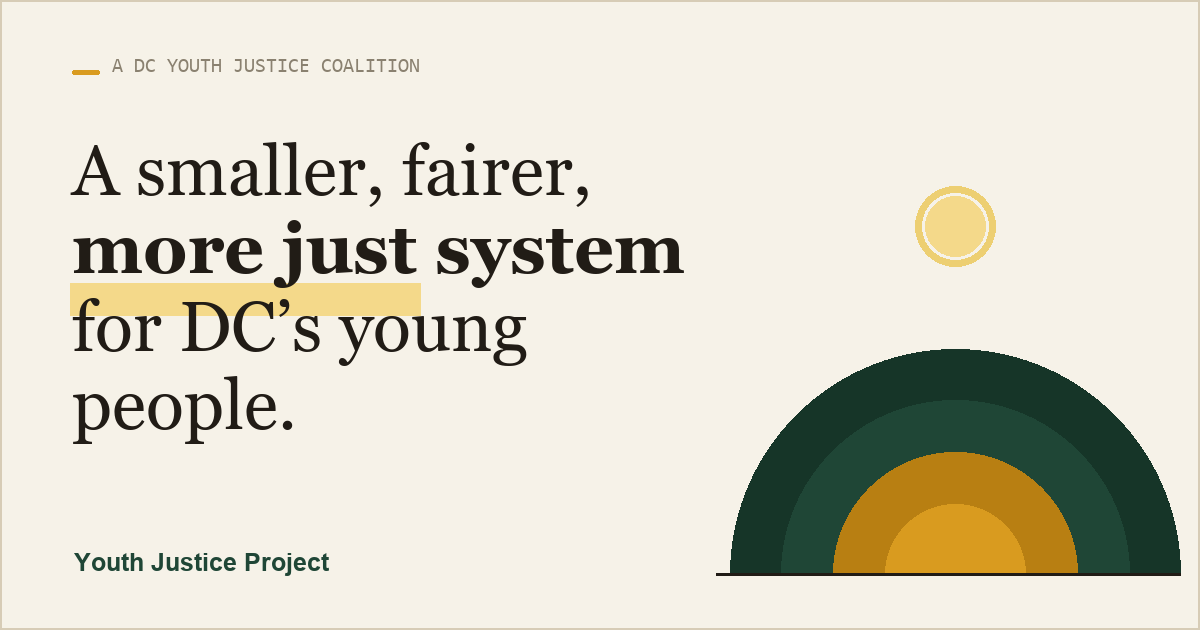
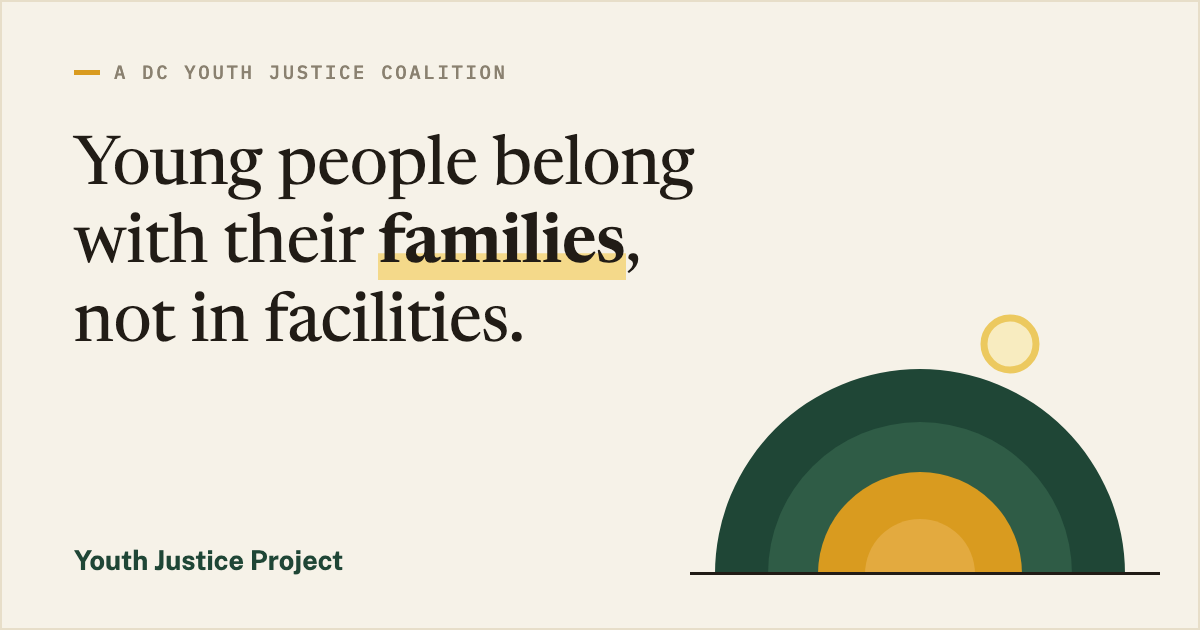
Replace the tagline triplet with four single-idea lines
- Hero: "Young people belong with their families, not in facilities."
  (also rendered into a regenerated og-image.png and its alt text)
- Mission band lead: "Every young person in the system is somebody's
  child. DC should act like it." with the descriptive sentence below
- Policy page hero: "A youth justice system that answers to DC."
- Homepage title tag and footer blurb: "Fewer young people in the
  system, more of them home"
- Drop "smaller, fairer" from the site description and mission copy
- Remove the founding-members roster from the history section for now
  (CSS kept for easy restore)

diff --git a/layouts/_default/members.html b/layouts/_default/members.html
@@ -93,19 +93,6 @@
           <p class="era-sum">Assumed administrative responsibility for the coalition.</p>
         </div>
       </div>
-      <div class="roster-label">The founding coalition, 2010</div>
-      <div class="roster-pills">
-        <span>Campaign for Youth Justice</span>
-        <span>Open City Advocates</span>
-        <span>Free Minds Book Club &amp; Writing Workshop</span>
-        <span>Alliance of Concerned Men</span>
-        <span>Sasha Bruce Youthwork</span>
-        <span>Took Crowell Institute's Juvenile and Special Education Law Clinic</span>
-        <span>DC Behavioral Health Association</span>
-        <span>Public Defender Service for the District of Columbia</span>
-        <span>Justice Policy Institute</span>
-      </div>
-      <p class="note-strip">This is the 2010 founding roster, not the current membership. Today's member organizations are in the grid above.</p>
     </div>
 
     <!-- JOIN -->

diff --git a/layouts/index.html b/layouts/index.html
@@ -6,7 +6,7 @@
       <div>
         <span class="kicker">A coalition for DC's young people</span>
         <h1>
-          <span class="hl hl-primary">A <span class="mark">smaller</span>, <span class="mark">fairer</span>, <span class="mark">more just</span> system for DC's young people.</span>
+          <span class="hl hl-primary">Young people belong with their <span class="mark">families</span>, not in facilities.</span>
           <span class="hl hl-family">DC can build a youth justice system that treats young people like <span class="mark">family</span>.</span>
           <span class="hl hl-community"><span class="mark">Dignity</span>, <span class="mark">freedom</span>, and <span class="mark">opportunity</span> for every young person in DC.</span>
         </h1>
@@ -158,7 +158,8 @@
 <section class="section dark" id="about">
   <div class="wrap">
     <span class="kicker on-dark">About the coalition</span>
-    <p class="mission-lead" style="margin-top:20px;">The Youth Justice Project unites DC's youth defenders, legal advocates, and allied organizations to confront racial injustice in the city's juvenile legal system and build a <span class="mark">smaller, fairer</span> system rooted in young people's families and communities.</p>
+    <p class="mission-lead" style="margin-top:20px;">Every young person in the system is <span class="mark">somebody's child</span>. DC should act like it.</p>
+    <p style="margin-top:18px; font-size:16px; color:rgba(243,239,226,0.8); max-width:60ch;">The Youth Justice Project unites DC's youth defenders, legal advocates, and allied organizations to confront racial injustice in the city's juvenile legal system and build a system rooted in young people's families and communities.</p>
 
     <div class="values">
       <div class="value">

diff --git a/layouts/partials/head.html b/layouts/partials/head.html
@@ -1,6 +1,6 @@
 <head>
 <meta charset="utf-8" />
-{{ $title := cond .IsHome "Youth Justice Project · A smaller, fairer, more just system for DC's young people" (printf "%s · Youth Justice Project" .Title) }}
+{{ $title := cond .IsHome "Youth Justice Project · Fewer young people in the system, more of them home" (printf "%s · Youth Justice Project" .Title) }}
 {{ $description := .Params.description | default site.Params.description }}
 {{ $canonical := cond .IsHome site.BaseURL .Permalink }}
 <title>{{ $title }}</title>
@@ -16,7 +16,7 @@
 <meta property="og:image" content="{{ "og-image.png" | absURL }}" />
 <meta property="og:image:width" content="1200" />
 <meta property="og:image:height" content="630" />
-<meta property="og:image:alt" content="Youth Justice Project: A smaller, fairer, more just system for DC's young people." />
+<meta property="og:image:alt" content="Youth Justice Project: Young people belong with their families, not in facilities." />
 <meta name="twitter:card" content="summary_large_image" />
 <meta name="twitter:title" content="{{ $title }}" />
 <meta name="twitter:description" content="{{ $description }}" />

diff --git a/layouts/_default/policy.html b/layouts/_default/policy.html
@@ -3,7 +3,7 @@
 <section class="page-hero">
   <div class="wrap">
     <span class="kicker">Policy &amp; Research</span>
-    <h1 style="margin-top:16px;">What the coalition and its members file, sign, litigate, and testify on.</h1>
+    <h1 style="margin-top:16px;">A youth justice system that answers to DC.</h1>
     <p class="lede">This is where the coalition publishes its shared positions on DC youth justice policy, alongside significant member-led litigation and the work behind it. Read, cite, and share any of it.</p>
   </div>
 </section>

diff --git a/layouts/partials/footer.html b/layouts/partials/footer.html
@@ -3,7 +3,7 @@
     <div class="foot-top">
       <div class="foot-blurb">
         <div class="bname">Youth Justice Project</div>
-        <p>A voluntary alliance of DC youth defenders, legal advocates, and allied organizations working to advance a smaller, fairer, more just, and community-rooted juvenile legal system.</p>
+        <p>A voluntary alliance of DC youth defenders, legal advocates, and allied organizations working for fewer young people in the system and more of them home.</p>
       </div>
       <div class="foot-col">
         <h5>About</h5>